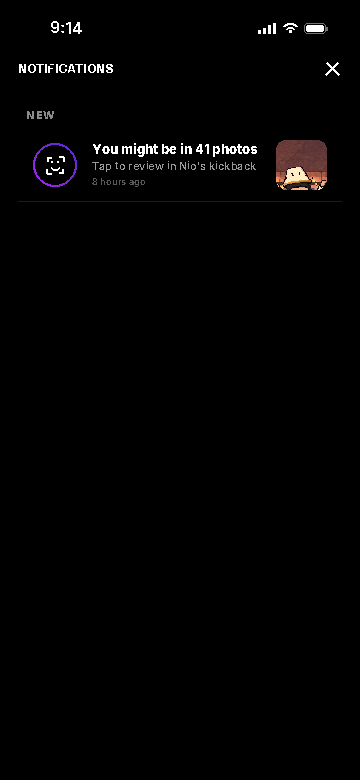
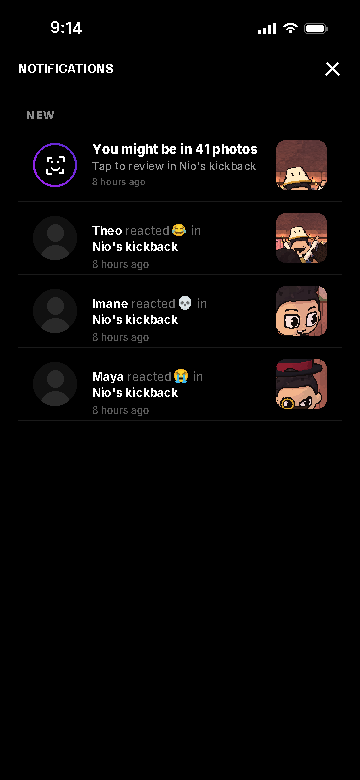
Launch skits v7: fixes after the first stranger reviews
Wave Back opens on the wave at Nio; Group Photo shows the photographer throughout; Aux
queue restaged; One Sip face-match screen gets its other rows and a zoom, Sami and Maya recut.

Claude-Session: https://claude.ai/code/session_019i3sgUp6puAAVeufqbiryk

diff --git a/studio/anim/src/ep/skits/groupPhoto.ts b/studio/anim/src/ep/skits/groupPhoto.ts
@@ -11,24 +11,30 @@ const L = (key: string, who: string, at: number): Line => ({ key, who, at });
 const at = (who: string, mark: string, face: A['face'], x: Partial<A> = {}): A => ({ who, at: mark, action: 'stand', face, ...x });
 const shots: Shot[] = [
   // the line, the sun behind them; Nio with his phone up
-  { n: 1, frames: 54, spec: R('whole', [at('nio', 'nio', 'hyped', { hold: 'photo', back: true }), at('theo', 'theo', 'smug'), at('sami', 'sami', 'neutral'), at('maya', 'maya', 'hyped')], false, 0.7), say: [L('gp_01', 'nio', 4)] },
-  { n: 2, frames: 40, spec: R('theo', [at('theo', 'theo', 'smug', { facing: 'nio', act: { g: [[0, 'dismiss']] } })]), say: [L('gp_02', 'theo', 2)] },
-  // so Nio goes round to Theo's left: now they face into the sun
-  { n: 3, frames: 34, spec: R('three', [at('theo', 'theo', 'smug', { facing: 'nio2' }), at('sami', 'sami', 'deadInside', { facing: 'nio2', gaze: [0, 0.4] }), at('maya', 'maya', 'uneasy', { facing: 'nio2' })]) },
-  { n: 4, frames: 50, spec: R('sami', [at('sami', 'sami', 'deadInside', { facing: 'nio2' })]), say: [L('gp_03', 'sami', 4)] },
-  { n: 5, frames: 46, spec: R('three', [at('theo', 'theo', 'deadInside', { facing: 'nio2' }), { who: 'sami', at: 'sami', to: 'samiOut', action: 'walk', face: 'neutral' }, at('maya', 'maya', 'uneasy', { facing: 'nio2' })]) },
-  { n: 6, frames: 40, spec: R('maya', [at('maya', 'maya', 'hyped', { facing: 'nio2', act: { g: [[0, 'point']] } })]), say: [L('gp_04', 'maya', 2)] },
+  { n: 1, frames: 30, spec: R('whole', [at('nio', 'nio', 'hyped', { hold: 'photo', back: true }), at('theo', 'theo', 'smug'), at('sami', 'sami', 'neutral'), at('maya', 'maya', 'hyped')], false, 0.7), },
+  { n: 2, frames: 40, spec: R('nioA', [at('nio', 'nio', 'hyped', { hold: 'photo', facing: 'sami' })]), say: [L('gp_01', 'nio', 2)] },
+  { n: 3, frames: 40, spec: R('theo', [at('theo', 'theo', 'smug', { facing: 'nio', act: { g: [[0, 'dismiss']] } })]), say: [L('gp_02', 'theo', 2)] },
+  // so Nio goes round to Theo's left, phone up: now they face into the sun (stranger, Nov 18: show the photographer
+  // in the middle, so every line has someone it is said to)
+  { n: 4, frames: 30, spec: R('nio', [at('nio', 'nio2', 'charm', { hold: 'photo', facing: 'sami' })]) },
+  { n: 5, frames: 34, spec: R('three', [at('theo', 'theo', 'smug', { facing: 'nio2' }), at('sami', 'sami', 'suspicious', { facing: 'nio2', gaze: [0, 0.4] }), at('maya', 'maya', 'uneasy', { facing: 'nio2' })]) },
+  { n: 6, frames: 50, spec: R('sami', [at('sami', 'sami', 'suspicious', { facing: 'nio2' })]), say: [L('gp_03', 'sami', 4)] },
+  { n: 7, frames: 46, spec: R('three', [at('theo', 'theo', 'deadInside', { facing: 'nio2' }), { who: 'sami', at: 'sami', to: 'samiOut', action: 'walk', face: 'neutral' }, at('maya', 'maya', 'uneasy', { facing: 'nio2' })]) },
+  { n: 8, frames: 40, spec: R('maya', [at('maya', 'maya', 'hyped', { facing: 'nio2', act: { g: [[0, 'point']] } })]), say: [L('gp_04', 'maya', 2)] },
   // so he climbs on a chair
-  { n: 7, frames: 34, spec: R('chair', [at('nio', 'chair', 'deadpan', { hold: 'photo' })], true, 0.35), sfx: [['oh_creak', 2, 0.5]] },
-  { n: 8, frames: 40, spec: R('theoUp', [at('theo', 'theo', 'suspicious', { facing: 'nio2', gaze: [0, 0.6] })], true), say: [L('gp_05', 'theo', 4)] },
-  { n: 9, frames: 32, spec: R('pov', [{ who: 'theo', at: 'theo', to: 'theoOut', action: 'walk', face: 'deadpan', back: true }, at('maya', 'maya', 'neutral', { facing: 'nio2', gaze: [0, 0.5] })], true) },
-  { n: 10, frames: 84, spec: R('pov', [at('maya', 'maya', 'real', { facing: 'nio2', gaze: [0, 0.5] })], true, 0.5), say: [L('gp_06', 'maya', 4)] },
-  { n: 11, frames: 30, spec: R('pov', [{ who: 'maya', at: 'maya', to: 'mayaOut', action: 'walk', face: 'neutral', back: true }], true) },
-  // he turns round on the chair. Flash.
-  { n: 12, frames: 40, shake: [14], spec: R('sunset', [], true, 0.2), flash: 14, sfx: [['shutter', 14, 0.9]] },
-  { n: 13, frames: 52, img: 'pxi-ui/screens/roof-album.png' },
-  // all four round the phone
-  { n: 14, frames: 50, spec: R('phone', [at('nio', 'nio2', 'deadpan', { facing: 'camera', gaze: [0, -0.4] }), at('theo', 'theoP', 'hyped', { gaze: [0, -0.4] }), at('maya', 'mayaP', 'charm', { gaze: [0, -0.4] }), at('sami', 'samiP', 'neutral', { gaze: [0, -0.4] })]), say: [L('gp_08', 'theo', 6)] },
-  { n: 15, frames: 44, spec: R('phone', [at('nio', 'nio2', 'deadpan', { facing: 'camera', gaze: [-0.9, 0.1] }), at('theo', 'theoP', 'hyped', { gaze: [0, -0.4] }), at('maya', 'mayaP', 'charm', { gaze: [0, -0.4] }), at('sami', 'samiP', 'neutral', { gaze: [0, -0.4] })], false, 0.25) },
+  { n: 9, frames: 34, spec: R('chair', [at('nio', 'chair', 'deadpan', { hold: 'photo' })], true, 0.35), sfx: [['oh_creak', 2, 0.5]] },
+  { n: 10, frames: 40, spec: R('theoUp', [at('theo', 'theo', 'suspicious', { facing: 'nio2', gaze: [0, 0.6] })], true), say: [L('gp_05', 'theo', 4)] },
+  { n: 11, frames: 32, spec: R('pov', [{ who: 'theo', at: 'theo', to: 'theoOut', action: 'walk', face: 'deadpan', back: true }, at('maya', 'maya', 'neutral', { facing: 'nio2', gaze: [0, 0.5] })], true) },
+  { n: 12, frames: 30, spec: R('chair', [at('nio', 'chair', 'uneasy', { hold: 'photo' })], true, 0.25) },
+  // Maya, the last one in the picture, says it to him, and goes
+  { n: 13, frames: 84, spec: R('maya', [at('maya', 'maya', 'real', { facing: 'nio2', gaze: [0, 0.5] })], true, 0.3), say: [L('gp_06', 'maya', 4)] },
+  { n: 14, frames: 30, spec: R('pov', [{ who: 'maya', at: 'maya', to: 'mayaOut', action: 'walk', face: 'neutral', back: true }], true) },
+  // alone on the chair, he turns round to the sunset. Flash.
+  { n: 15, frames: 28, spec: R('chair', [at('nio', 'chair', 'deadpan', { hold: 'photo' })], true, 0.2) },
+  { n: 16, frames: 34, shake: [12], spec: R('sunset', [], true, 0.2), flash: 12, sfx: [['shutter', 12, 0.9]] },
+  { n: 17, frames: 52, img: 'pxi-ui/screens/roof-album.png' },
+  // later: all four crowd round Theo's phone, scrolling the album
+  { n: 18, frames: 50, spec: R('phone', [at('nio', 'nio2', 'deadpan', { facing: 'camera', gaze: [0, -0.4] }), at('theo', 'theoP', 'hyped', { gaze: [0, -0.4], hold: 'phone' }), at('maya', 'mayaP', 'charm', { gaze: [0, -0.4] }), at('sami', 'samiP', 'neutral', { gaze: [0, -0.4] })]), say: [L('gp_08', 'theo', 6)] },
+  { n: 19, frames: 40, spec: R('phone', [at('nio', 'nio2', 'deadpan', { facing: 'camera', gaze: [-0.9, 0.1] }), at('theo', 'theoP', 'hyped', { gaze: [0, -0.4], hold: 'phone' }), at('maya', 'mayaP', 'charm', { gaze: [0, -0.4] }), at('sami', 'samiP', 'neutral', { gaze: [0, -0.4] })], false, 0.25) },
 ];
 export const GROUP_PHOTO: SkitDef = { id: 'group-photo', shots, beds: [['sk_wind', 0.3]] };

diff --git a/studio/anim/src/ep/skits/waveBack.ts b/studio/anim/src/ep/skits/waveBack.ts
@@ -15,8 +15,9 @@ const nio = (at: string, face: A['face'], x: Partial<A> = {}): A => ({ who: 'nio
 const GRASS: [string, number, number?][] = [['sk_quad', 0, 0.6]];
 const ROOM: [string, number, number?][] = [['sk_dinner', 0, 0.7]];
 const shots: Shot[] = [
-  // the quad. Nio, alone, looking good. A guy at the far end waves big. (The girl in yellow is behind Nio.)
-  { n: 1, frames: 50, spec: { ...Q('wide', [marcus('marcus', 'hyped', { hold: 'wave', back: true }), nio('nio', [[0, 'neutral'], [16, 'charm']], { facing: 'marcus' }), sis('sis', 'charm', { facing: 'marcus' })]), push: 0.8 }, sfx: GRASS },
+  // the quad. A guy across the grass waves big, straight at us: at Nio (stranger, Nov 18: the wide from behind him left
+  // the viewer unsure who waved at whom)
+  { n: 1, frames: 40, spec: { ...Q('marcus', [marcus('marcus', 'hyped', { hold: 'wave' })]), push: 0.25 }, sfx: GRASS },
   // Nio waves back, bigger
   { n: 2, frames: 40, spec: Q('nioClose', [nio('nio', 'hyped', { hold: 'wave' })]), sfx: GRASS },
   // but the girl in yellow behind him is waving too. It was for her.
@@ -33,7 +34,7 @@ const shots: Shot[] = [
   { n: 9, frames: 30, spec: Q('nioM', [nio('nioM', 'charm', { facing: 'marcus' })]), say: [L('wb_04', 'nio', 2)], sfx: GRASS },
   { n: 10, frames: 30, spec: Q('marcus', [marcus('marcus', 'deadInside', { hold: 'phone' })]), say: [L('wb_05', 'marcus', 4)], sfx: GRASS },
   // he does not take the exit
-  { n: 11, frames: 30, spec: Q('nioM', [nio('nioM', 'smug', { facing: 'marcus' })]), say: [L('wb_09', 'nio', 2)], sfx: GRASS },
+  { n: 11, frames: 44, spec: Q('nioM', [nio('nioM', 'smug', { facing: 'marcus' })]), say: [L('wb_09', 'nio', 2)], sfx: GRASS },
   // so Nio taps Join on the family's PXI event before Marcus can lock his phone
   { n: 12, frames: 34, img: 'pxi-ui/screens/dinner.png', sfx: [['oh_tap', 26, 0.9]] },
   { n: 13, frames: 30, shake: [2], img: 'pxi-ui/screens/dinner2.png', sfx: [['sk_ding', 2, 0.6]] },
@@ -44,6 +45,6 @@ const shots: Shot[] = [
   // button: his sister comes in. It's the girl from the quad. She waves at her brother. Nio waves back. Nobody says anything.
   { n: 17, frames: 40, spec: { ...D('door', [sis('door', 'charm', { hold: 'wave' })]), push: 0.3 }, sfx: ROOM },
   { n: 18, frames: 40, spec: { ...D('nio', [{ who: 'nio', at: 'nio', action: 'sit', face: 'deadpan', hold: 'wave', hand: 0 }]), push: 0.25 }, sfx: ROOM },
-  { n: 19, frames: 60, spec: { ...D('wide', [{ who: 'mum', at: 'mum', action: 'sit', face: 'neutral' }, { who: 'nio', at: 'nio', action: 'sit', face: 'deadpan', hold: 'wave', hand: 0 }, { who: 'marcus', at: 'marcus', action: 'sit', face: 'deadInside' }, sis('door', 'uneasy', { facing: 'nio' })]), push: 0.5 }, sfx: ROOM },
+  { n: 19, frames: 36, spec: { ...D('wide', [{ who: 'mum', at: 'mum', action: 'sit', face: 'neutral' }, { who: 'nio', at: 'nio', action: 'sit', face: 'deadpan', hold: 'wave', hand: 0 }, { who: 'marcus', at: 'marcus', action: 'sit', face: 'deadInside' }, sis('door', 'uneasy', { facing: 'nio' })]), push: 0.35 }, sfx: ROOM },
 ];
 export const WAVE_BACK: SkitDef = { id: 'wave-back', shots, beds: [] };

diff --git a/studio/anim/src/nw3d/world.ts b/studio/anim/src/nw3d/world.ts
@@ -103,7 +103,7 @@ SETS.partyLive = {
     duelT: { s: 2.15, z: 1.8, yaw: 270 }, duelS: { s: 2.6, z: 2.2, yaw: 90 }, duelM: { s: 2.05, z: 2.85, yaw: 190 }, duelI: { s: 2.95, z: 2.8, yaw: 200 },
     king: { s: 1.6, z: 3.38, yaw: 180, on: 0.36 }, booM: { s: 0.95, z: 3.0, yaw: 90 }, booT: { s: 2.0, z: 2.3, yaw: 330 }, booI: { s: 1.25, z: 2.25, yaw: 20 }, booG: { s: 0.9, z: 2.5, yaw: 60 },
     nioK: { s: 2.55, z: 1.85, yaw: 320 }, couch: { s: 1.15, z: 3.72, yaw: 180, seat: 0.45 },
-    q1: { s: 0.8, z: 1.6, yaw: 180 }, q2: { s: 1.0, z: 2.1, yaw: 180 }, q3: { s: 1.2, z: 2.6, yaw: 180 }, q4: { s: 1.4, z: 3.05, yaw: 180 },
+    q1: { s: 1.2, z: 1.45, yaw: 195 }, q2: { s: 1.4, z: 1.9, yaw: 195 }, q3: { s: 1.6, z: 2.35, yaw: 195 }, q4: { s: 1.8, z: 2.8, yaw: 195 },
   },
   cameras: { ...SETS.party.cameras,
     two: C([2.1, 1.25, 0.15], [2.03, 1.1, 2.4], 60), // the two of them, side on, from the door end
@@ -114,6 +114,9 @@ SETS.partyLive = {
     auxWide: C([3.6, 1.7, 0.1], [2.1, 1.1, 2.4], 80), // the whole room from the desk corner, up high
     auxNio: C([0.3, 1.45, 2.3], [3.15, 1.38, 1.98], 40), // Nio by the desk, from across the room
     auxUp: C([0.3, 1.2, 0.2], [1.9, 2.0, 2.7], 64), // up at the ceiling
+    queue2: C([0.7, 1.45, 0.35], [1.5, 1.3, 2.1], 36), // the queue from the front, down the line of faces
+    theoQ: C([2.6, 1.45, 1.65], [1.8, 1.45, 2.8], 36), // Theo at the back of the queue, turned to Nio
+    queueN: C([3.6, 1.45, 3.55], [1.5, 1.3, 2.1], 60), // the queue turned to Nio, from the window corner
     queue: C([0.6, 1.95, 0.2], [1.05, 1.25, 2.2], 44), // the queue, from by the door, down the line of faces
     // ONE SIP v7 (fitted with out/camfit2: every face in, every face seen)
     kick: C([2.3, 1.65, 0.15], [2.05, 1.3, 2.4], 48), // the two of them on the rug, both faces
@@ -122,8 +125,9 @@ SETS.partyLive = {
     duel: C([1.2, 1.5, 1.05], [2.55, 1.35, 2.15], 44), // the duel: Sami, from where Theo stands
     duel2: C([3.4, 1.65, 3.05], [2.4, 1.35, 2.0], 36), // the duel: Theo, over Sami's shoulder
     kingWide: C([1.6, 1.25, 0.25], [1.6, 1.5, 2.9], 56), // low on the rug, up at the coffee table, two of them booing in front
+    samiS: C([0.5, 1.5, 1.45], [1.7, 1.4, 2.35], 40), // Sami at the rug, from where Imane stands
     coachI: C([3.2, 1.45, 0.85], [1.0, 1.3, 2.2], 36), // Imane cornered, a friend behind taking a photo
-    mayaK: C([2.2, 1.45, 2.15], [0.95, 1.4, 3.0], 40), // Maya, from the king's side
+    mayaK: C([1.9, 1.5, 4.05], [0.95, 1.4, 3.0], 40), // Maya, from behind the king's table
     nioRev: C([1.8, 1.45, 3.15], [2.55, 1.3, 1.85], 44), // Nio, from the coffee table end
     couch: C([1.15, 1.45, 1.9], [1.15, 1.05, 3.72], 40), // whoever is on the sofa
         faint: C([1.55, 1.45, 0.85], [0.95, 0.6, 2.3], 60), // the couch, and whoever is on it

diff --git a/studio/anim/src/ep/Skit.tsx b/studio/anim/src/ep/Skit.tsx
@@ -28,8 +28,9 @@ import LIPS_WB from '../lips/wb.json';
 import ACC_WB from '../lips/wb_accents.json';
 
 export type Line = { key: string; who: string; at: number }; // at: the frame inside the shot where the line starts
-// img: a full-screen picture instead of a set (a PXI screen, public/<img>), pushed in slowly. flash: a camera flash at this frame.
-export type Shot = { n: number; frames: number; spec?: ShotSpec | ((f: number) => ShotSpec); img?: string; flash?: number; shake?: number[]; drop?: [number, number, number, number, number]; poof?: [number, number, number][]; rain?: boolean; say?: Line[]; sfx?: [string, number, number?][] };
+// img: a full-screen picture instead of a set (a PXI screen, public/<img>), pushed in slowly. zoom: [scale, the height
+// it zooms toward, percent from the top], for a screen whose point is one row. flash: a camera flash at this frame.
+export type Shot = { n: number; frames: number; spec?: ShotSpec | ((f: number) => ShotSpec); img?: string; zoom?: [number, number]; flash?: number; shake?: number[]; drop?: [number, number, number, number, number]; poof?: [number, number, number][]; rain?: boolean; say?: Line[]; sfx?: [string, number, number?][] };
 // beds: [sound, volume, the shot it stops at (optional: else it runs to the end)]
 export type SkitDef = { id: string; shots: Shot[]; beds: [string, number, number?][] };
 type VoLine = { file: string; who: string; sub: string; dur: number };
@@ -71,7 +72,7 @@ const Shake: React.FC<{ at: number[]; children: React.ReactNode }> = ({ at, chil
   return <AbsoluteFill style={{ transform: `translate(${x}px, ${y}px) scale(${1 + 0.04 * k})` }}>{children}</AbsoluteFill>; };
 const ShotView: React.FC<{ shot: Shot }> = ({ shot }) => {
   const f = useCurrentFrame();
-  if (shot.img) return <AbsoluteFill style={{ background: '#000' }}><img src={staticFile(shot.img)} style={{ position: 'absolute', left: (1080 - 886) / 2, top: 0, width: 886, height: 1920, imageRendering: 'pixelated', transform: `scale(${1 + 0.06 * f / shot.frames})` }} /></AbsoluteFill>;
+  if (shot.img) return <AbsoluteFill style={{ background: '#000' }}><img src={staticFile(shot.img)} style={{ position: 'absolute', left: (1080 - 886) / 2, top: 0, width: 886, height: 1920, imageRendering: 'pixelated', transform: `scale(${(shot.zoom?.[0] ?? 1) * (1 + 0.06 * f / shot.frames)})`, transformOrigin: `50% ${shot.zoom?.[1] ?? 50}%` }} /></AbsoluteFill>;
   const base = typeof shot.spec === 'function' ? shot.spec(f) : shot.spec!;
   const spec: ShotSpec = { ...base, frames: shot.frames, actors: base.actors.map((a) => {
     const mine = (shot.say ?? []).filter((l) => l.who === a.who && lips[l.key]);

diff --git a/studio/anim/src/ep/skits/aux.ts b/studio/anim/src/ep/skits/aux.ts
@@ -27,14 +27,14 @@ const shots: Shot[] = [
   { n: 6, frames: 64, shake: [4], spec: { ...P('auxWide', [...guests('g', 'laughing', { wear: HAT }), theo('g', 'hyped', { wear: HAT }), nioW('deadInside', { hold: 'phone' })], ['cake']), push: 0.5 }, sfx: [['oh_tap', 0, 0.8], ['sk_birthday', 0, 0.8]] },
   { n: 7, frames: 56, spec: { ...P('auxNio', [nio('uneasy', { hold: 'phone' })], ['cake']), push: 0.35 }, say: [L('ax_04', 'nio', 4)], sfx: [['sk_birthday', 0, 0.35]] },
   // lift music: everyone in a silent line facing the door, waiting for their floor
-  { n: 8, frames: 84, shake: [4], spec: { ...P('queue', [...guests('q', 'deadpan', { wear: HAT }), theo('q', 'deadpan', { wear: HAT })]), push: 0.4 }, sfx: [['oh_tap', 0, 0.8], ['sk_muzak', 0, 0.8], ['sk_ding', 66, 0.8]] },
+  { n: 8, frames: 84, shake: [4], spec: { ...P('queue2', [...guests('q', 'deadpan', { wear: HAT }), theo('q', 'deadpan', { wear: HAT })]), push: 0.12 }, sfx: [['oh_tap', 0, 0.8], ['sk_muzak', 0, 0.8], ['sk_ding', 66, 0.8]] },
   // so he pulls the cable. Silence. Everyone is themselves again, soaked, in party hats, by the door. Nio braces.
   { n: 9, frames: 26, shake: [4], spec: P('auxNio', [nio('shock', { hold: 'phone' })]), sfx: [['sk_unplug', 4, 1]] },
-  { n: 10, frames: 40, spec: { ...P('queue', [...guests('q', 'shock', { wear: HAT, facing: 'nioD' }), theo('q', 'deadpan', { wear: HAT, facing: 'nioD', hold: 'phone' })]), push: 0.35 } },
+  { n: 10, frames: 40, spec: { ...P('queueN', [...guests('q', 'shock', { wear: HAT, facing: 'nioD' }), theo('q', 'deadpan', { wear: HAT, facing: 'nioD', hold: 'phone' })]), push: 0.12 } },
   { n: 11, frames: 30, spec: { ...P('auxNio', [nio('uneasy', { act: { g: [[2, 'neck']] } })]), push: 0.3 } },
   // Theo scrolls the PXI album of the night: the rain, the ceiling, the cake, the queue
   { n: 12, frames: 60, img: 'pxi-ui/screens/aux-album.png', sfx: [['oh_tap', 20, 0.6], ['oh_tap', 40, 0.6]] },
-  { n: 13, frames: 54, spec: { ...P('queue', [...guests('q', 'neutral', { wear: HAT, facing: 'nioD' }), theo('q', 'real', { wear: HAT, facing: 'nioD', hold: 'phone' })]), push: 0.35 }, say: [L('ax_08', 'theo', 6)] },
+  { n: 13, frames: 54, spec: { ...P('queueN', [...guests('q', 'neutral', { wear: HAT, facing: 'nioD' }), theo('q', 'real', { wear: HAT, facing: 'nioD', hold: 'phone' })]), push: 0.15 }, say: [L('ax_08', 'theo', 6)] },
   // he straightens his jacket
   { n: 14, frames: 50, spec: { ...P('auxNio', [nio([[0, 'deadpan'], [12, 'smug']], { act: { g: [[10, 'chest']] } })]), push: 0.3 }, say: [L('ax_09', 'nio', 22)] },
 ];

diff --git a/studio/anim/src/ep/skits/oneSip.ts b/studio/anim/src/ep/skits/oneSip.ts
@@ -28,7 +28,7 @@ const shots: Shot[] = [
   { n: 3, frames: 40, spec: P('nio', [st('nio', 'nioR', [[0, 'charm'], [30, 'smug']], { facing: 'samiL', hold: 'cup-point' })]), say: [L('os_02', 'nio', 2)] },
   // sip one: a scarf and little glasses. He points at the speaker.
   sipShot(4, [], SNOB, [NECK, FACE], 1),
-  { n: 5, frames: 40, spec: P('sami', [st('sami', 'samiL', 'smug', { facing: 'osImane', wear: SNOB, act: { g: [[4, 'point']] } })]), say: [L('os_03', 'sami', 2)] },
+  { n: 5, frames: 40, spec: P('samiS', [st('sami', 'samiL', 'smug', { facing: 'osImane', wear: SNOB, act: { g: [[4, 'point']] } })]), say: [L('os_03', 'sami', 2)] },
   { n: 6, frames: 26, spec: P('imane', [st('imane', 'osImane', [[0, 'neutral'], [6, 'suspicious']], { facing: 'samiL' })]), say: [L('os_04', 'imane', 6)] },
   // Nio, the host, covers for him
   { n: 7, frames: 34, spec: P('nio', [st('nio', 'nioR', 'charm', { facing: 'osImane', act: { g: [[4, 'offer']] } })]), say: [L('os_05', 'nio', 2)] },
@@ -50,7 +50,7 @@ const shots: Shot[] = [
   { n: 19, frames: 60, spec: P('nioRev', [st('nio', 'nioK', [[0, 'deadpan'], [10, 'disgust']], { facing: 'king', hold: 'juicebox' })], 0.1), say: [L('os_13', 'nio', 12)], sfx: [['sk_wheeze', 6, 0.6]] },
   // the next morning: Sami crashed on the sofa, his phone. PXI: you might be in 41 photos. Not me. Not me. Not me.
   { n: 20, frames: 36, spec: P('couch', [{ who: 'sami', at: 'couch', action: 'sit', face: 'crushed', hold: 'phone', wear: ['lanyard'] }], 0.1, undefined, 'livingDay'), sfx: [...MORNING, ['sk_ding', 18, 0.6]] },
-  { n: 21, frames: 40, img: 'pxi-ui/screens/facematch.png', sfx: [['oh_tap', 30, 0.8]] },
+  { n: 21, frames: 40, img: 'pxi-ui/screens/facematch.png', zoom: [1.3, 15], sfx: [['oh_tap', 30, 0.8]] },
   { n: 22, frames: 30, img: 'pxi-ui/screens/review-king.png', sfx: [['oh_tap', 22, 0.8]] },
   { n: 23, frames: 22, img: 'pxi-ui/screens/review-coach.png', sfx: [['oh_tap', 14, 0.8]] },
   { n: 24, frames: 24, img: 'pxi-ui/screens/review-duke.png', sfx: [['oh_tap', 12, 0.8]] },

diff --git a/studio/anim/src/nw3d/campus.ts b/studio/anim/src/nw3d/campus.ts
@@ -710,6 +710,7 @@ export const ROOF_CAMS: Record<string, Cam3> = {
   pov: C([4.0, 2.0, 8.95], [4.0, 1.15, 6.5], 72), // Nio's phone up on the chair: the line, and the sunset behind us
   chair: C([3.0, 0.7, 7.2], [4.0, 1.7, 9.1], 50), // Nio up on the chair, from below, the violet sky behind him
   nio: C([3.3, 1.45, 6.4], [4.0, 1.4, 9.1], 40), // Nio from where the three were
+  nioA: C([3.6, 1.5, 6.1], [4.0, 1.42, 4.0], 40), // Nio at the start, phone up, from the line
   whole: C([4.0, 2.2, 0.6], [4.0, 1.0, 7.0], 70), // the whole roof from the stair hut end
   phone: C([4.0, 1.55, 10.85], [4.0, 1.45, 8.6], 60), // up from Nio's phone at the four faces round it
 };

diff --git a/studio/anim/tools/pxi/screens.py b/studio/anim/tools/pxi/screens.py
@@ -538,7 +538,7 @@ def _scanface(s, cx, cy, r, col):
     s.box(cx - 4, cy - 4, cx - 2, cy - 2, col); s.box(cx + 2, cy - 4, cx + 4, cy - 2, col)
     s.d.arc([cx - 5, cy - 3, cx + 5, cy + 5], 20, 160, fill=col, width=2)
 
-def face_match(album="Nio's kickback", n=41, photo=None):
+def face_match(album="Nio's kickback", n=41, photo=None, reacts=None):
     """One Sip's button: the notifications screen (app/notifications.tsx: SheetHeader "Notifications" in small caps with
     the close X, the section label, rows flat on black with a hairline) with the opt-in face-match row
     (src/components/notifications/FaceMatchCard.tsx: the purple gradient ring with ScanFace, "You might be in N photos",
@@ -562,6 +562,17 @@ def face_match(album="Nio's kickback", n=41, photo=None):
     if photo is not None:
         t = pt(56); s.photo(photo.resize((t, t), Image.NEAREST), W - pt(36) - t, cy - t // 2, W - pt(36), cy + t // 2, r=pt(10))
     s.box(pt(20), top + pt(80), W - pt(20), top + pt(80) + 1, white(0.1))
+    # the night's other rows under it (PhotoReactionCard.tsx: avatar, "{name} reacted {emoji} in {album}", the time)
+    for k, (name, em, still_name) in enumerate(reacts or []):
+        y0 = top + pt(80) + k * pt(80); cy2 = y0 + pt(40)
+        s.avatar(nobody(d), ix, cy2 - d // 2, d)
+        x = tx; _, x = s.text(x, cy2 - pt(9), name, 700, sysp(14), WHITE); _, x = s.text(x, cy2 - pt(9), ' reacted ', 500, sysp(14), white(0.42))
+        s.emoji(em, pt(15), x + pt(8), cy2 - pt(9)); x += pt(17)
+        _, x = s.text(x, cy2 - pt(9), ' in ', 500, sysp(14), white(0.42))
+        s.text(tx, cy2 + pt(9), album, 700, sysp(14), WHITE)
+        s.text(tx, cy2 + pt(28), '8 hours ago', 500, sysp(12), white(0.35))
+        t = pt(56); s.photo(sq(still(still_name), 0.5, 0.35, 0.7).resize((t, t), Image.NEAREST), W - pt(36) - t, cy2 - t // 2, W - pt(36), cy2 + t // 2, r=pt(10))
+        s.box(pt(20), y0 + pt(80), W - pt(20), y0 + pt(80) + 1, white(0.1))
     return s.im
 
 def face_review(photo, left=41, match=94):
@@ -602,7 +613,7 @@ def review_photo(name, cx, cy, k):
     return im.crop((x, y, x + cw, y + ch))
 
 SCREENS = {'thread': thread, 'gallery': gallery, 'discover': discover, 'map': discover_map, 'camera': camera, 'passport': passport, 'lock': lock, 'roof': roof_album, 'dinner': sunday_dinner, 'dinner2': lambda: sunday_dinner(True), 'aux-album': aux_album,
-           'facematch': lambda: face_match(photo=sq(still('os1180'), 0.5, 0.25, 0.5)),
+           'facematch': lambda: face_match(photo=sq(still('os1180'), 0.5, 0.25, 0.5), reacts=[('Theo', '\U0001F602', 'os1180'), ('Imane', '\U0001F480', 'os612'), ('Maya', '\U0001F62D', 'os904')]),
            'review-king': lambda: face_review(review_photo('os1180', 0.47, 0.38, 0.5), 41, 94),
            'review-coach': lambda: face_review(review_photo('os612', 0.45, 0.4, 0.8), 40, 91),
            'review-duke': lambda: face_review(review_photo('os904', 0.5, 0.35, 0.8), 39, 88)}

diff --git a/episodes/launch-skits/review/wave-back-2/stranger.md b/episodes/launch-skits/review/wave-back-2/stranger.md
@@ -1,0 +1,14 @@
+# Stranger review: Wave Back v7 (Nov 18): FAIL
+
+Saved from the stranger's report (it could not write files).
+
+Lost in the first 10 seconds: who waved at whom (the opening wide is from behind the guy waving). Static end: two near-identical
+wide shots of the table (37 to 39 s). "Send me the link." subtitle sits over the app screen. A small brown object on the table
+at 30.7 s. Nio's eyes and skin read different from the golden lineup in the bright outdoor light. The girl in yellow was taken
+for Maya; she is Marcus's sister, a new design not in the cast sheet the stranger had.
+
+Laugh: a small smile at lying his way into a stranger's mum's dinner; quotable line "I did not wave at you."
+
+Fixes for round 3: the opening is now Marcus waving big straight at us (at Nio), then Nio waving back; the "Send me the link"
+shot runs long enough that its subtitle ends before the phone screen; the closing wide is cut from 60 to 36 frames. The review
+package gets a golden_extra sheet of the new designs (Marcus, Mum, his sister).

diff --git a/episodes/launch-skits/review/group-photo-1/stranger.md b/episodes/launch-skits/review/group-photo-1/stranger.md
@@ -1,0 +1,9 @@
+# Stranger review: Group Photo v7 (Nov 18): FAIL
+
+The photographer (Nio) was never shown in the middle, so the lines had no listener and the end joke had nothing to land on.
+Maya's line read as someone else's because she was half out of the frame. Sami's forehead showed the grey "gloom" shade.
+Empty roof and sky for 1.5 s before the flash. The album screen read as an unconnected product shot.
+
+Fixes for round 2: Nio says the opening line to camera-side front; Nio is shown going round with his phone up, on the chair,
+and alone on the chair turning to the sunset; Maya gets her own shot for her line, then walks out; Sami squints instead of
+the gloom face; Theo holds the phone in the final crowd shot.
